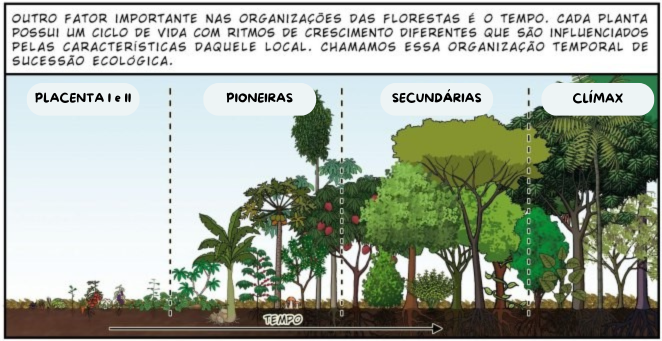
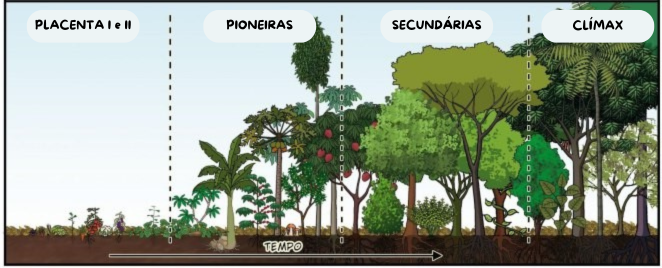
Ajustes de exibição

diff --git a/src/components/saf/AddSaf.js b/src/components/saf/AddSaf.js
@@ -17,6 +17,7 @@ import {
  TableRow,
  Paper,
  Typography,
+ FormControl,
 } from "@mui/material";
 
 import { getCurrentUser, addSaf } from "../../services/firebaseService";
@@ -28,8 +29,8 @@ function AddSaf() {
 
  const [safName, setSafName] = useState("");
  const [guardian, setGuardian] = useState("");
- const [ guardianTelegramUsername, setGuardianTelegramUsername ] = useState("");
- const [ guardianEmail, setGuardianEmail ] = useState("");
+ const [guardianTelegramUsername, setGuardianTelegramUsername] = useState("");
+ const [guardianEmail, setGuardianEmail] = useState("");
  const [mentor, setMentor] = useState("");
  const [local, setLocal] = useState("");
  const [selectedSpecies, setSelectedSpecies] = useState({});
@@ -48,6 +49,8 @@ function AddSaf() {
  }
 
  async function handleSave() {
+    if (!validateForm()) return;
+
     const _user = await getCurrentUser();
     let payload = {
       safName: safName,
@@ -67,6 +70,36 @@ function AddSaf() {
     navigate("/home");
  }
 
+ function validateForm() {
+   let isValid = true;
+   
+   if (!safName.trim()) {
+     isValid = false;
+   }
+
+   if (!guardian.trim()) {
+     isValid = false;
+   }
+
+   if (!guardianTelegramUsername.trim()) {
+     isValid = false;
+   }
+
+   if (!guardianEmail.trim()) {
+     isValid = false;
+   }
+
+   if (!mentor.trim()) {
+     isValid = false;
+   }
+
+   if (!local.trim()) {
+     isValid = false;
+   }
+
+   return isValid;
+ }
+
  return (
     <AuthProvider value={{ selectedSpecies, setSelectedSpecies }}>
       <Container maxWidth="xlg">
@@ -81,74 +114,80 @@ function AddSaf() {
             gutterBottom
             style={{ fontFamily: "Roboto" }}>Novo SAF
           </Typography>
-          <TextField
-            variant="outlined"
-            margin="normal"
-            required
-            fullWidth
-            id="safName"
-            label="Nome do SAF"
-            name="safName"
-            autoFocus
-            value={safName}
-            onChange={(e) => setSafName(e.target.value)}
-          />
-          <TextField
-            variant="outlined"
-            margin="normal"
-            required
-            fullWidth
-            name="guardian"
-            label="Nome do guardião"
-            id="guardian"
-            value={guardian}
-            onChange={(e) => setGuardian(e.target.value)}
-          />
-          <TextField
-            variant="outlined"
-            margin="normal"
-            required
-            fullWidth
-            name="guardianEmail"
-            label="Email do guardião"
-            id="guardianEmail"
-            value={guardianEmail}
-            onChange={(e) => setGuardianEmail(e.target.value)}
-          />
-          <TextField
-            variant="outlined"
-            margin="normal"
-            required
-            fullWidth
-            name="guardianTelegram"
-            label="Telegram @handle do guardião"
-            id="guardianTelegram"
-            value={guardianTelegramUsername}
-            onChange={(e) => setGuardianTelegramUsername(e.target.value)}
-          />
-          <TextField
-            variant="outlined"
-            margin="normal"
-            required
-            fullWidth
-            name="mentor"
-            label="Mentor da sucessão"
-            id="mentor"
-            value={mentor}
-            onChange={(e) => setMentor(e.target.value)}
-          />
-          <TextField
-            variant="outlined"
-            margin="normal"
-            required
-            fullWidth
-            name="local"
-            label="Cidade, UF"
-            placeholder="Ex.: Bias Fortes, MG"
-            id="local"
-            value={local}
-            onChange={(e) => setLocal(e.target.value)}
-          />
+          <FormControl fullWidth margin="normal" error={!validateForm()}>
+            <TextField
+              variant="outlined"
+              required
+              fullWidth
+              id="safName"
+              label="Nome do SAF"
+              name="safName"
+              autoFocus
+              value={safName}
+              onChange={(e) => setSafName(e.target.value)}
+            />
+          </FormControl>
+          <FormControl fullWidth margin="normal" error={!validateForm()}>
+            <TextField
+              variant="outlined"
+              required
+              fullWidth
+              name="guardian"
+              label="Nome do guardião"
+              id="guardian"
+              value={guardian}
+              onChange={(e) => setGuardian(e.target.value)}
+            />
+          </FormControl>
+          <FormControl fullWidth margin="normal" error={!validateForm()}>
+            <TextField
+              variant="outlined"
+              required
+              fullWidth
+              name="guardianEmail"
+              label="Email do guardião"
+              id="guardianEmail"
+              value={guardianEmail}
+              onChange={(e) => setGuardianEmail(e.target.value)}
+            />
+          </FormControl>
+          <FormControl fullWidth margin="normal" error={!validateForm()}>
+            <TextField
+              variant="outlined"
+              required
+              fullWidth
+              name="guardianTelegram"
+              label="Telegram @handle do guardião"
+              id="guardianTelegram"
+              value={guardianTelegramUsername}
+              onChange={(e) => setGuardianTelegramUsername(e.target.value)}
+            />
+          </FormControl>
+          <FormControl fullWidth margin="normal" error={!validateForm()}>
+            <TextField
+              variant="outlined"
+              required
+              fullWidth
+              name="mentor"
+              label="Mentor da sucessão"
+              id="mentor"
+              value={mentor}
+              onChange={(e) => setMentor(e.target.value)}
+            />
+          </FormControl>
+          <FormControl fullWidth margin="normal" error={!validateForm()}>
+            <TextField
+              variant="outlined"
+              required
+              fullWidth
+              name="local"
+              label="Cidade, UF"
+              placeholder="Ex.: Bias Fortes, MG"
+              id="local"
+              value={local}
+              onChange={(e) => setLocal(e.target.value)}
+            />
+          </FormControl>
           
         </Box>
         <Box my={4}>
@@ -165,6 +204,17 @@ function AddSaf() {
             alt="Descrição da imagem"
             style={{ width: "100%" }}
           />
+          <Typography
+            variant="body2"
+            color="textSecondary"
+            align="left"
+            style={{ marginTop: "1px", marginBottom: "20px" }}
+          >
+            Quadrinhos de João Lotufo e César Trevelin. Fonte:{" "}
+            <a href="https://issuu.com/joao13/docs/agrofloresta-em-quadrinhos-e-book" target="_blank" rel="noopener noreferrer">
+              https://issuu.com/joao13/docs/agrofloresta-em-quadrinhos-e-book
+            </a>
+          </Typography>
           <TimePeriodStepper />
           <AddSpecieModal />
           <TableContainer component={Paper}>
@@ -215,6 +265,9 @@ function AddSaf() {
             </Table>
           </TableContainer>
           <Box my={4} display="flex" justifyContent="center">
+          {!validateForm() ? (
+            <Typography variant="body2" color="error">Por favor, preencha todos os campos obrigatórios.</Typography>
+          ) : (
             <Button
               variant="contained"
               style={{ backgroundColor: "#617c59", marginBottom:"50px" }}
@@ -222,7 +275,8 @@ function AddSaf() {
             >
               Salvar
             </Button>
-          </Box>
+          )}
+        </Box>
         </Box>
       </Container>
     </AuthProvider>

diff --git a/src/components/saf/Details.js b/src/components/saf/Details.js
@@ -24,6 +24,7 @@ import { useParams } from "react-router-dom";
 import { db } from "../../firebase";
 import { doc, getDoc, deleteDoc } from "firebase/firestore";
 import MainPageProofs from "../proof/index";
+import { getCurrentUser } from "../../services/firebaseService";
 
 function Details() {
  const navigate = useNavigate();
@@ -31,6 +32,7 @@ function Details() {
  const [safDetails, setSafDetails] = useState(null);
  const [loading, setLoading] = useState(true);
  const [open, setOpen] = useState(false);
+ const [isOwner, setIsOwner] = useState(false);
 
  const stratumNames = ["EMERGENTE", "ALTO", "MÉDIO", "BAIXO"];
  const successions = ["PLACENTA I", "PLACENTA II", "PIONEIRAS", "SECUNDÁRIAS", "CLÍMAX"];
@@ -56,17 +58,28 @@ function Details() {
         setLoading(false); // Certifique-se de que o estado de carregamento seja atualizado para false após a busca
       }
     };
+    
 
     fetchSafDetails();
  }, [id]); // Dependência do useEffect para re-executar ao mudar o ID
+ 
+ useEffect(() => {
+  const checkOwner = async () => {
+    if (!loading && safDetails) {
+      const currentUser = await getCurrentUser();
+      setIsOwner(currentUser.uid === safDetails.createdByUID);
+    }
+  };
+  checkOwner();
+}, [loading, safDetails]);
 
- const handleClickOpen = () => {
-    setOpen(true);
- };
+const handleClickOpen = () => {
+  setOpen(true);
+};
 
- const handleClose = () => {
-    setOpen(false);
- };
+const handleClose = () => {
+  setOpen(false);
+};
 
  const handleDelete = async () => {
     try {
@@ -190,9 +203,13 @@ function Details() {
             <MainPageProofs safId={id} />
 
             <div style={{ display: 'flex', justifyContent: 'center', marginTop: '20px' }}>
-              <Button variant="contained" color="error" onClick={handleClickOpen}>
-                Remover
-              </Button>
+              {isOwner && (
+                <>
+                  <Button variant="contained" color="error" onClick={handleClickOpen}>
+                    Remover
+                  </Button>
+                </>
+              )}
             </div>
           </CardContent>
         </Card>
